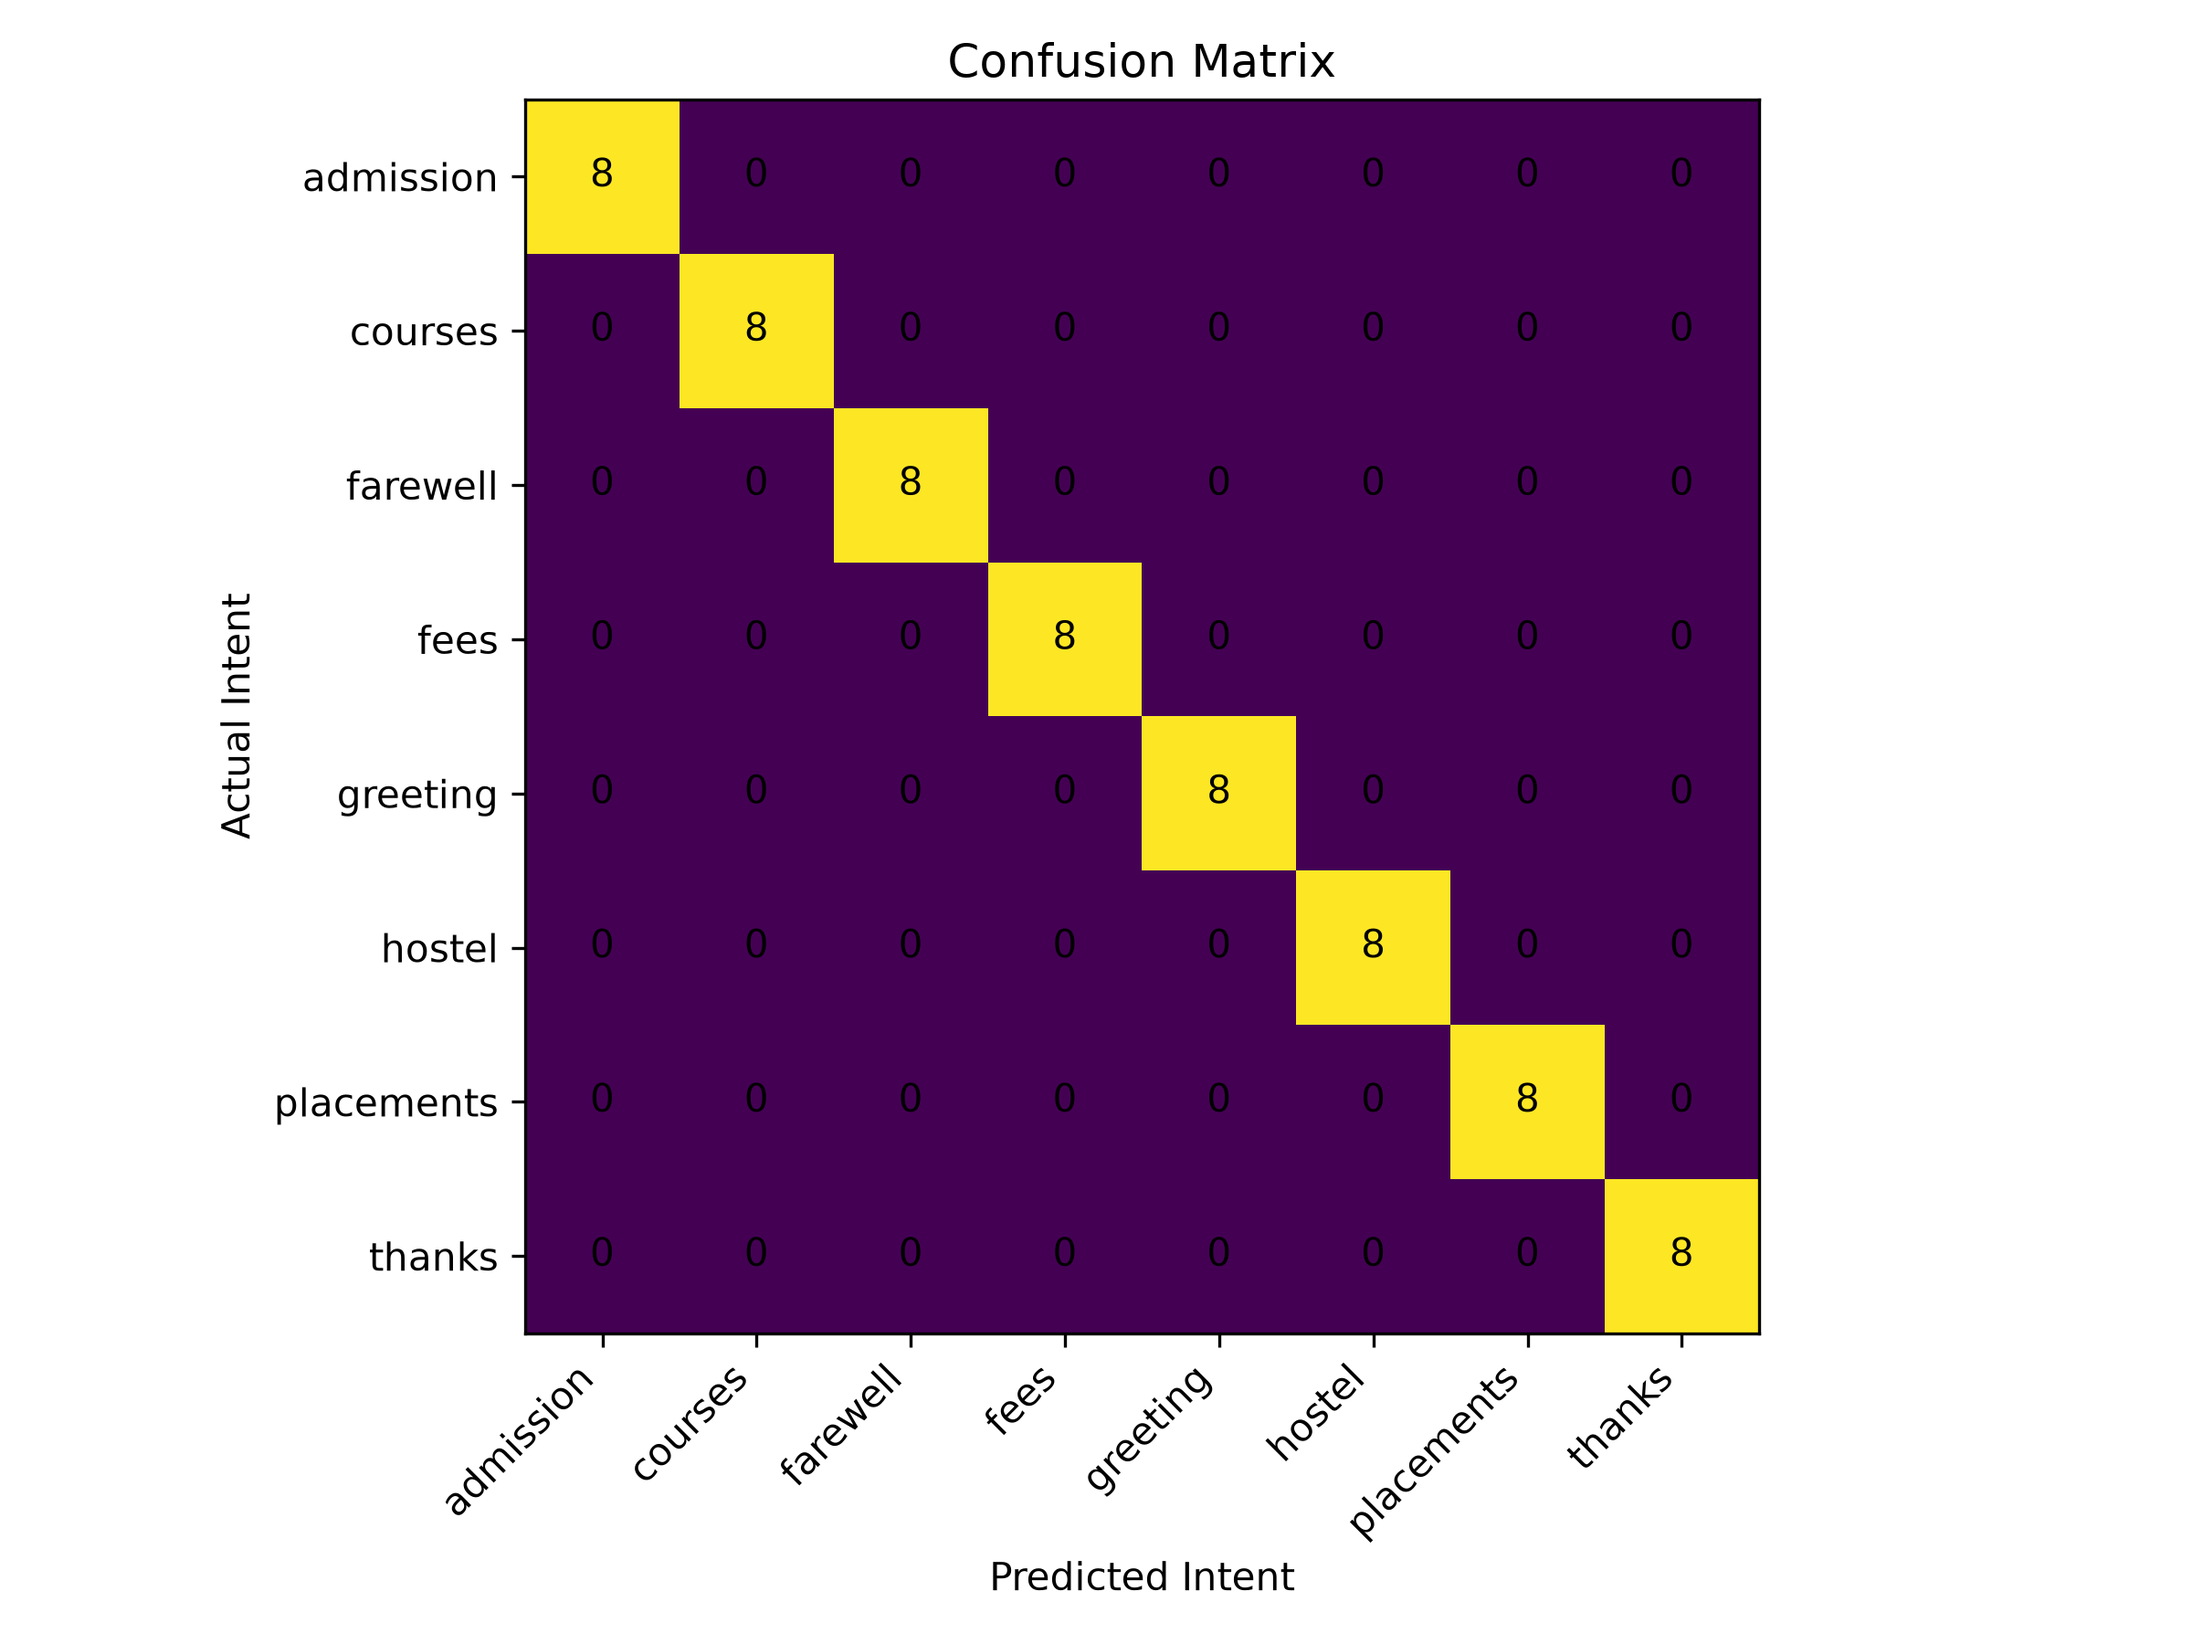
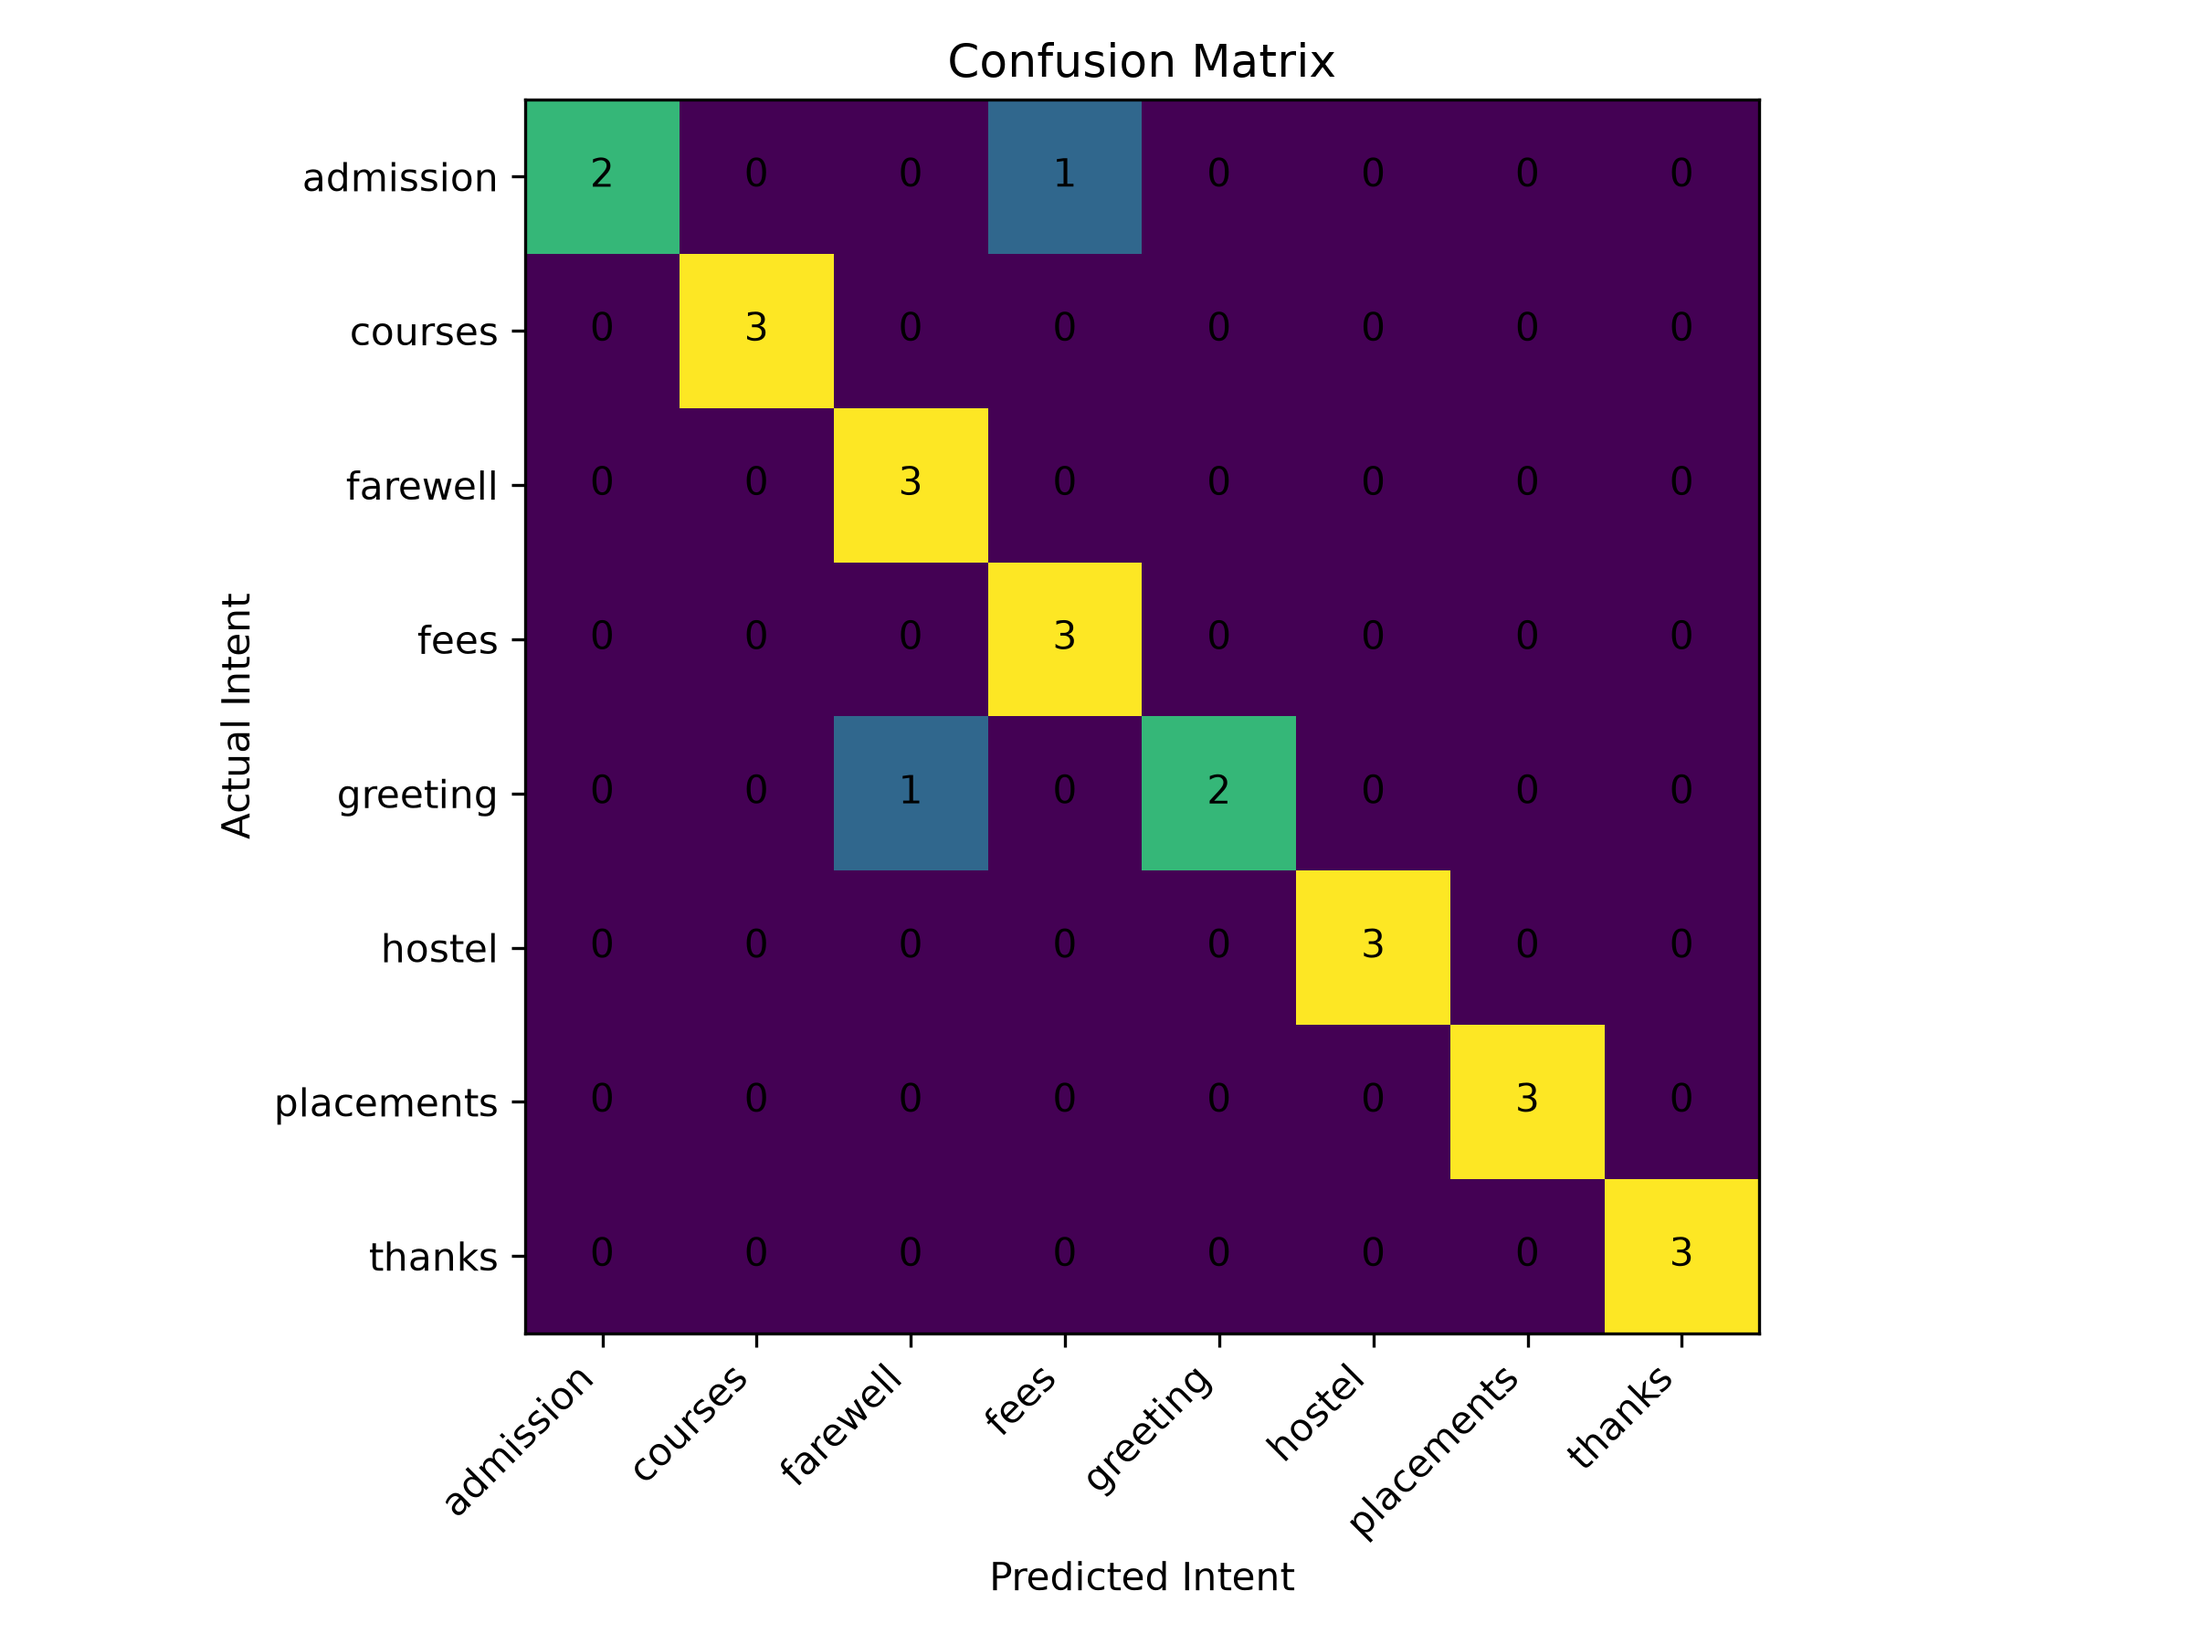
Add separate test dataset evaluation

diff --git a/model_evaluation.py b/model_evaluation.py
@@ -68,6 +68,28 @@ def prepare_training_data():
     return training_texts, intent_labels
 
 
+def load_test_data():
+    """Load unseen test questions and their intent labels."""
+
+    with open("test_dataset.json", "r", encoding="utf-8") as file:
+        test_data = json.load(file)
+
+    test_questions = []
+    test_labels = []
+
+    for item in test_data:
+
+        test_questions.append(
+            preprocess_text(item["question"])
+        )
+
+        test_labels.append(
+            item["intent"]
+        )
+
+    return test_questions, test_labels
+
+
 if __name__ == "__main__":
 
     print("=" * 60)
@@ -75,7 +97,7 @@ if __name__ == "__main__":
     print("=" * 60)
 
     # -----------------------------------
-    # Prepare training data
+    # Prepare Training Data
     # -----------------------------------
 
     X, y = prepare_training_data()
@@ -111,33 +133,54 @@ if __name__ == "__main__":
     print("Model training completed successfully.")
 
     # -----------------------------------
+    # Load Test Dataset
+    # -----------------------------------
+
+    test_questions, test_labels = load_test_data()
+
+    print(f"\nTotal test examples: {len(test_questions)}")
+
+    # -----------------------------------
+    # Transform Test Data
+    # -----------------------------------
+
+    X_test_tfidf = vectorizer.transform(
+        test_questions
+    )
+
+    # -----------------------------------
     # Predictions
     # -----------------------------------
 
-    predictions = model.predict(X_tfidf)
+    predictions = model.predict(
+        X_test_tfidf
+    )
 
     # -----------------------------------
     # Evaluation Metrics
     # -----------------------------------
 
-    accuracy = accuracy_score(y, predictions)
+    accuracy = accuracy_score(
+        test_labels,
+        predictions
+    )
 
     precision = precision_score(
-        y,
+        test_labels,
         predictions,
         average="weighted",
         zero_division=0
     )
 
     recall = recall_score(
-        y,
+        test_labels,
         predictions,
         average="weighted",
         zero_division=0
     )
 
     f1 = f1_score(
-        y,
+        test_labels,
         predictions,
         average="weighted",
         zero_division=0
@@ -162,7 +205,7 @@ if __name__ == "__main__":
 
     print(
         classification_report(
-            y,
+            test_labels,
             predictions,
             zero_division=0
         )
@@ -176,56 +219,60 @@ if __name__ == "__main__":
     print("             CONFUSION MATRIX")
     print("=" * 60)
 
-    matrix = confusion_matrix(y, predictions)
+    matrix = confusion_matrix(
+        test_labels,
+        predictions
+    )
 
-print(matrix)
+    print(matrix)
 
-# -----------------------------------
-# Confusion Matrix Visualization
-# -----------------------------------
+    # -----------------------------------
+    # Confusion Matrix Visualization
+    # -----------------------------------
 
-labels = sorted(set(y))
+    labels = sorted(set(test_labels))
 
-plt.figure(figsize=(8, 6))
+    plt.figure(figsize=(8, 6))
 
-plt.imshow(matrix)
+    plt.imshow(matrix)
 
-plt.title("Confusion Matrix")
-plt.xlabel("Predicted Intent")
-plt.ylabel("Actual Intent")
+    plt.title("Confusion Matrix")
+    plt.xlabel("Predicted Intent")
+    plt.ylabel("Actual Intent")
 
-plt.xticks(
-    range(len(labels)),
-    labels,
-    rotation=45,
-    ha="right"
-)
+    plt.xticks(
+        range(len(labels)),
+        labels,
+        rotation=45,
+        ha="right"
+    )
 
-plt.yticks(
-    range(len(labels)),
-    labels
-)
+    plt.yticks(
+        range(len(labels)),
+        labels
+    )
 
-for i in range(len(labels)):
-    for j in range(len(labels)):
-        plt.text(
-            j,
-            i,
-            matrix[i, j],
-            ha="center",
-            va="center"
-        )
+    for i in range(len(labels)):
+        for j in range(len(labels)):
 
-plt.tight_layout()
+            plt.text(
+                j,
+                i,
+                matrix[i, j],
+                ha="center",
+                va="center"
+            )
 
-plt.savefig(
-    "outputs/confusion_matrix.png",
-    dpi=300
-)
+    plt.tight_layout()
 
-plt.close()
+    plt.savefig(
+        "outputs/confusion_matrix.png",
+        dpi=300
+    )
 
-print("\nConfusion matrix saved to:")
-print("outputs/confusion_matrix.png")
+    plt.close()
 
-print("\nModel evaluation completed successfully.")
+    print("\nConfusion matrix saved to:")
+    print("outputs/confusion_matrix.png")
+
+    print("\nModel evaluation completed successfully.")
